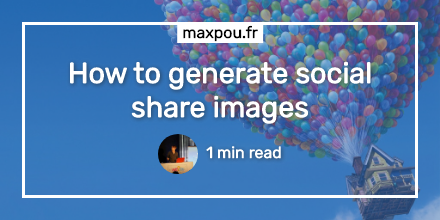
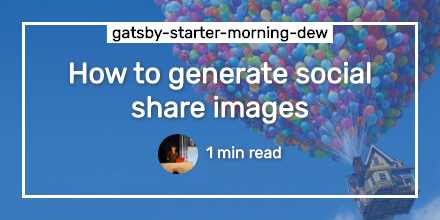
fix(social-share): remove hardcoded site name + symlinks in generatePostPreviewImages (#95)
fix(social-share): fix siteTitle width
post: update image on post how to generate social image share

Changed region(s): [[0.2364, 0.1091, 0.7682, 0.2182]]

diff --git a/src/templates/blog-post-share-image.js b/src/templates/blog-post-share-image.js
@@ -83,6 +83,7 @@ const SiteTitle = styled.p.attrs({
   background-color: #fff;
   padding: 1px 5px 1px 5px;
   transform: translate(-50%);
+  width: max-content;
 `
 
 const AuthorImg = styled.img.attrs({
@@ -115,7 +116,7 @@ const BlogPostShareImage = props => {
   const post = props.data.post
   const { width, height, type } = props.pageContext
   const heroImg = post.frontmatter.cover && post.frontmatter.cover.publicURL
-  const { siteCover, authorAvatar } = useSiteMetadata()
+  const { siteCover, authorAvatar, headerTitle } = useSiteMetadata()
   const { fixed } = useSiteImages(authorAvatar)
 
   return (
@@ -126,7 +127,7 @@ const BlogPostShareImage = props => {
       />
       <GlobalPageStyle />
 
-      <SiteTitle type={type}>maxpou.fr</SiteTitle>
+      <SiteTitle type={type}>{headerTitle}</SiteTitle>
       <Title type={type}>{post.frontmatter.title}</Title>
       <SubTitle>
         <AuthorImg type={type} src={fixed.src} />

diff --git a/scripts/generatePostPreviewImages.js b/scripts/generatePostPreviewImages.js
@@ -31,7 +31,7 @@ const takeScreenshot = async (url, width, height, destination) => {
 }
 
 const getArticleFiles = () => {
-  return glob.sync(join(__dirname, '..', 'content', 'posts', '**', '*.md'))
+  return glob.sync(join(process.cwd(), 'content', 'posts', '**', '*.md'))
 }
 
 const parseFile = async file => {
